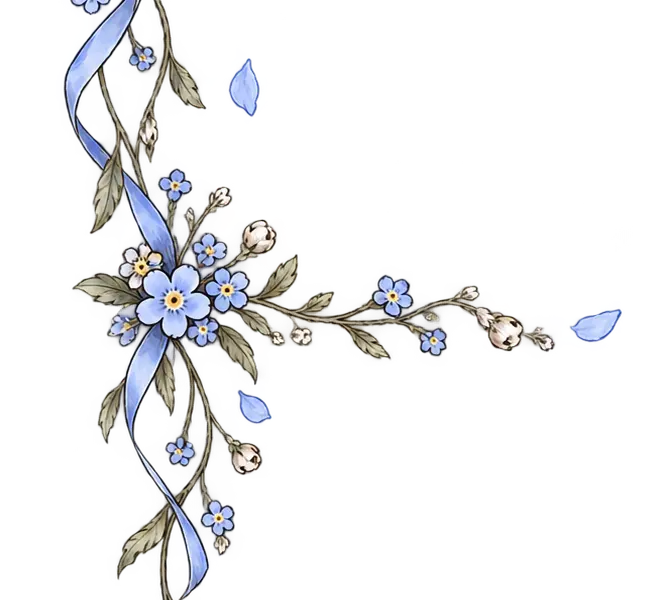
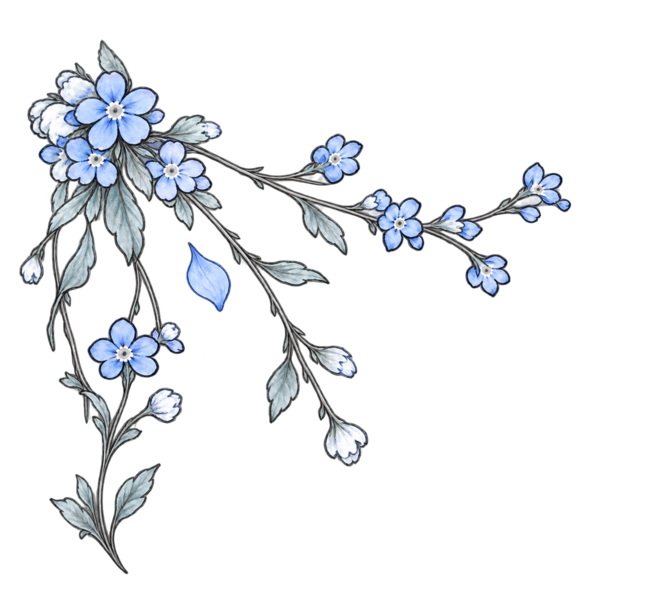
Add 薄雾来信 cool silver-blue artwork and floating dock theme

Changed region(s): [[0.0308, 0.0, 0.9538, 1.0], [0.4923, 0.66, 0.5846, 0.78], [0.3385, 0.09, 0.4, 0.21]]

diff --git a/index.js b/index.js
@@ -70,8 +70,8 @@ let pearScope=null,pearObserver=null;
 function watchPear(){const scope=document.querySelector('#pear-nai-host')?.shadowRoot;if(scope===pearScope)return;pearObserver?.disconnect();pearScope=scope;if(scope){pearObserver=new MutationObserver(()=>{if(!timer)timer=setTimeout(()=>{timer=null;sync();},250);});pearObserver.observe(scope,{childList:true,subtree:true,attributes:true,attributeFilter:['src']});}}
 function sync(){
  watchPear();
- root.hidden=!cfg.enabled;root.dataset.theme=cfg.theme==='lily'?'lily':'rose';const frameSrc=asset(root.dataset.theme==='lily'?'lily-ink-frame':'rose-frame');for(const img of frameImages)if(img.getAttribute('src')!==frameSrc)img.src=frameSrc;
- const src=safeUrl(cfg.icon)||asset(root.dataset.theme==='lily'?'lily-ink-launcher':'rose-launcher');if(icon.getAttribute('src')!==src){icon.src=src;icon.onerror=()=>{icon.onerror=null;const fallback=asset(root.dataset.theme==='lily'?'lily-ink-launcher':'rose-launcher');if(icon.src!==fallback)icon.src=fallback;};}
+ root.hidden=!cfg.enabled;root.dataset.theme=['lily','mist'].includes(cfg.theme)?cfg.theme:'rose';const frameSrc=asset(root.dataset.theme==='mist'?'thin-mist-frame':root.dataset.theme==='lily'?'lily-ink-frame':'rose-frame');for(const img of frameImages)if(img.getAttribute('src')!==frameSrc)img.src=frameSrc;
+ const src=safeUrl(cfg.icon)||asset(root.dataset.theme==='mist'?'thin-mist-launcher':root.dataset.theme==='lily'?'lily-ink-launcher':'rose-launcher');if(icon.getAttribute('src')!==src){icon.src=src;icon.onerror=()=>{icon.onerror=null;const fallback=asset(root.dataset.theme==='mist'?'thin-mist-launcher':root.dataset.theme==='lily'?'lily-ink-launcher':'rose-launcher');if(icon.src!==fallback)icon.src=fallback;};}
  const targets=new Set();const keys=new Set();
  for(const item of cfg.items){const target=resolve(item);if(cfg.enabled&&target)targets.add(target);keys.add(item.selector);
  let v=views.get(item.selector);if(!v){const b=el('button','lfd-item');b.type='button';const visual=el('span','lfd-visual'),name=el('span','lfd-name');b.append(visual,name);v={b,visual,name,signature:null};views.set(item.selector,v);}
@@ -108,7 +108,7 @@ function input(label,value,change,type='text'){const wrap=el('label','lfd-field'
 function button(text,fn){const b=el('button','menu_button',text);b.type='button';b.onclick=fn;return b;}
 function openEditor(){document.querySelector('#lfd-editor')?.remove();const d=el('dialog');d.id='lfd-editor';const title=el('h3','','浮窗收纳');d.append(title);const close=button('完成',()=>d.close());d.append(close);d.addEventListener('close',()=>d.remove());
 const enabled=el('label','lfd-field','启用收纳');const cb=el('input');cb.type='checkbox';cb.checked=cfg.enabled;cb.onchange=()=>{cfg.enabled=cb.checked;save();sync();};enabled.append(cb);d.append(enabled);
-const themes=el('select');for(const [v,t] of [['rose','玫瑰月相'],['lily','百合羽信']]){const o=el('option','',t);o.value=v;themes.append(o);}themes.value=cfg.theme;themes.onchange=()=>{cfg.theme=themes.value;save();sync();};d.append(themes,input('入口图片链接（留空使用内置）',cfg.icon,v=>{cfg.icon=v;save();sync();}),input('入口大小（40–110）',cfg.size,v=>{cfg.size=Math.max(40,Math.min(110,Number(v)||64));save();sync();},'number'));
+const themes=el('select');for(const [v,t] of [['rose','玫瑰月相'],['lily','百合羽信'],['mist','薄雾来信']]){const o=el('option','',t);o.value=v;themes.append(o);}themes.value=cfg.theme;themes.onchange=()=>{cfg.theme=themes.value;save();sync();};d.append(themes,input('入口图片链接（留空使用内置）',cfg.icon,v=>{cfg.icon=v;save();sync();}),input('入口大小（40–110）',cfg.size,v=>{cfg.size=Math.max(40,Math.min(110,Number(v)||64));save();sync();},'number'));
 d.append(input('装饰框等比大小（60–160%，超出屏幕时自动适配）',cfg.frameScale,v=>{cfg.frameScale=Math.max(60,Math.min(160,Number(v)||100));save();sync();},'number'),input('收纳图标大小（20–90）',cfg.itemSize,v=>{cfg.itemSize=Math.max(20,Math.min(90,Number(v)||44));save();sync();},'number'));
 d.append(button('点选一个悬浮按钮',()=>{d.close();startPick();}),button('一键扫描并全部收纳',()=>{collectAll();openEditor();}));
 for(const [i,item] of cfg.items.entries()){const box=el('div','lfd-entry');box.append(input('名字',item.name,v=>{item.name=v;save();sync();}),input('图案链接（留空沿用原图）',item.icon,v=>{item.icon=v;save();sync();}),input('按钮定位（高级）',item.selector,v=>{item.selector=v;save();sync();}));box.append(button('前移',()=>{if(i){[cfg.items[i-1],cfg.items[i]]=[cfg.items[i],cfg.items[i-1]];save();sync();openEditor();}}),button('移出',()=>{cfg.items.splice(i,1);save();sync();openEditor();}));d.append(box);}

diff --git a/style.css b/style.css
@@ -119,3 +119,5 @@
 #lfd-root[data-theme=lily] .lfd-frame-bridge img{left:-200px}
 #lfd-root[data-theme=lily] .lfd-frame-center{display:block;left:calc(50% - 16px);width:32px!important;z-index:1}
 #lfd-root[data-theme=lily] .lfd-frame-center img{left:-299px}
+
+#lfd-root[data-theme=mist]{--lfd-paper:#f7fbff;--lfd-ink:#414b5b}
